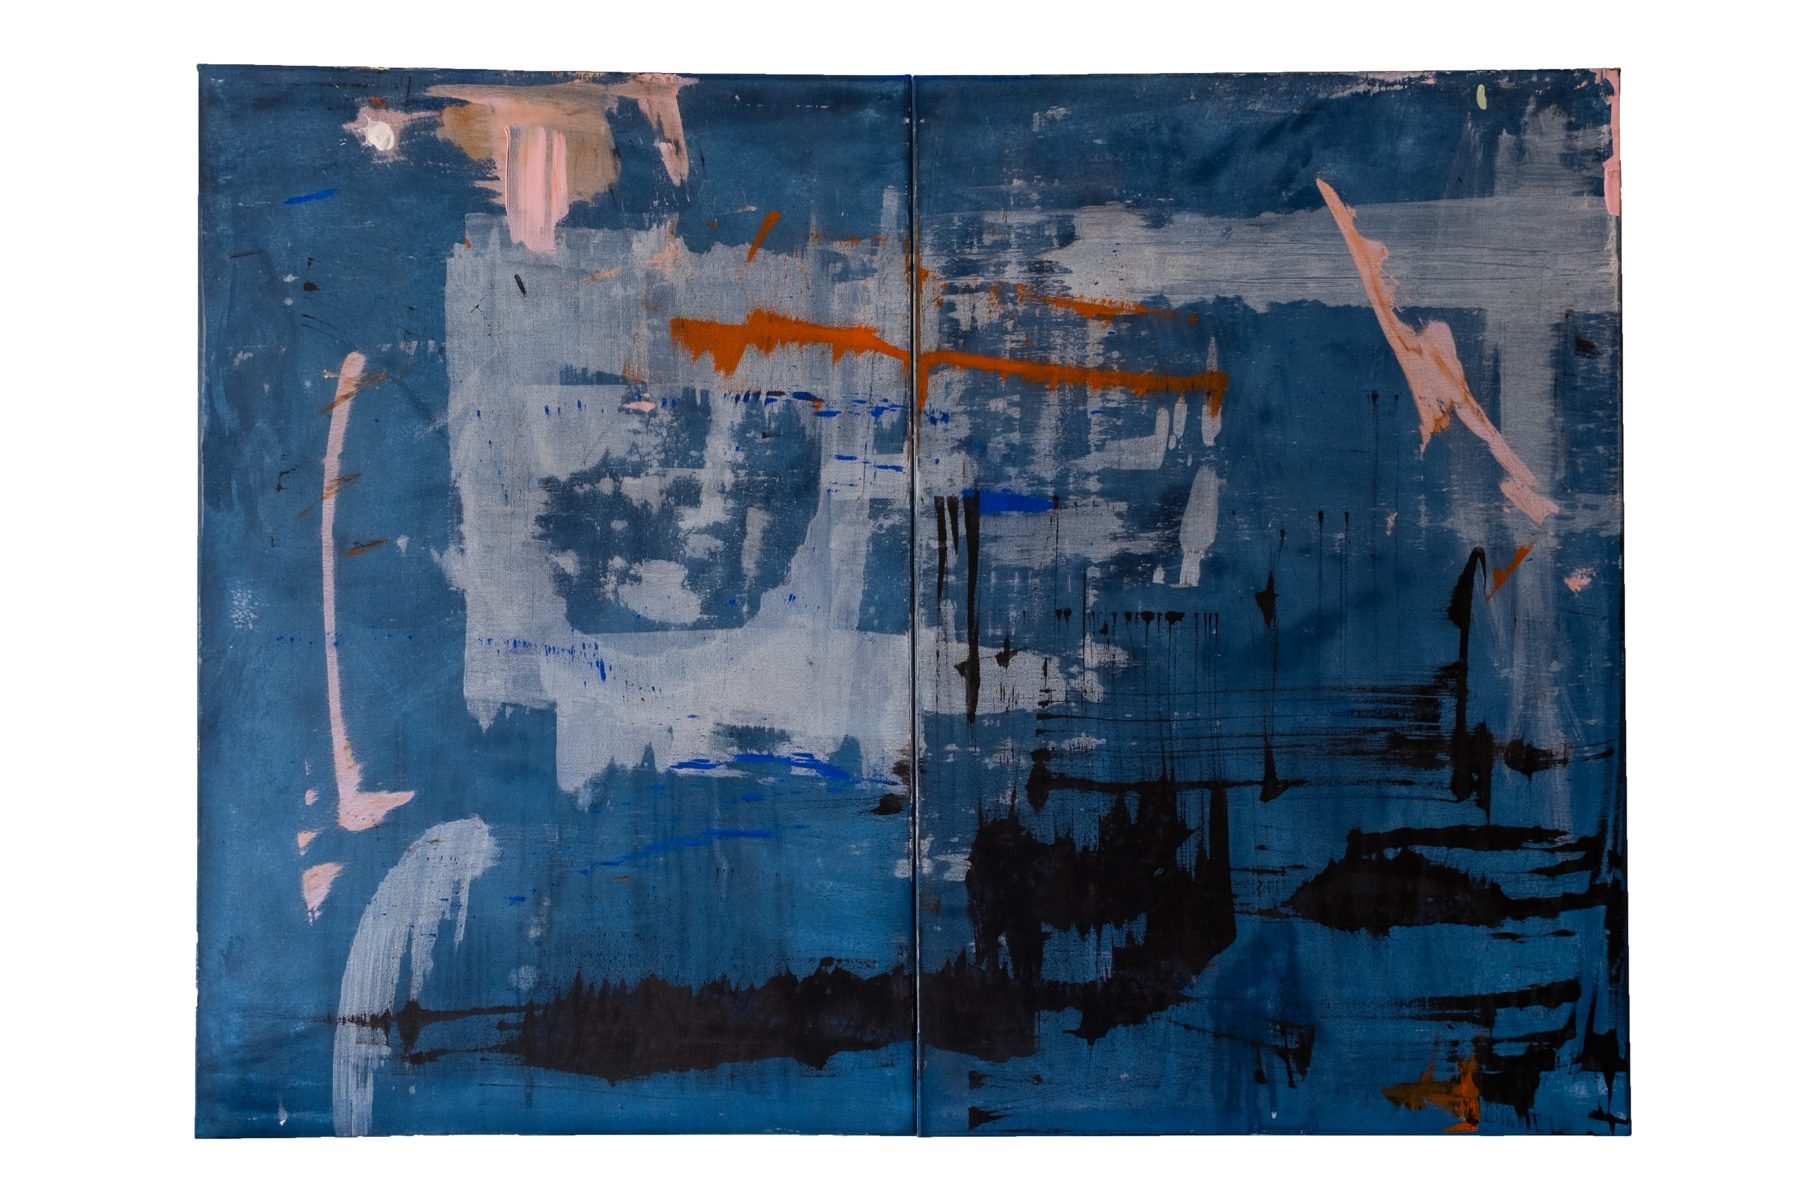
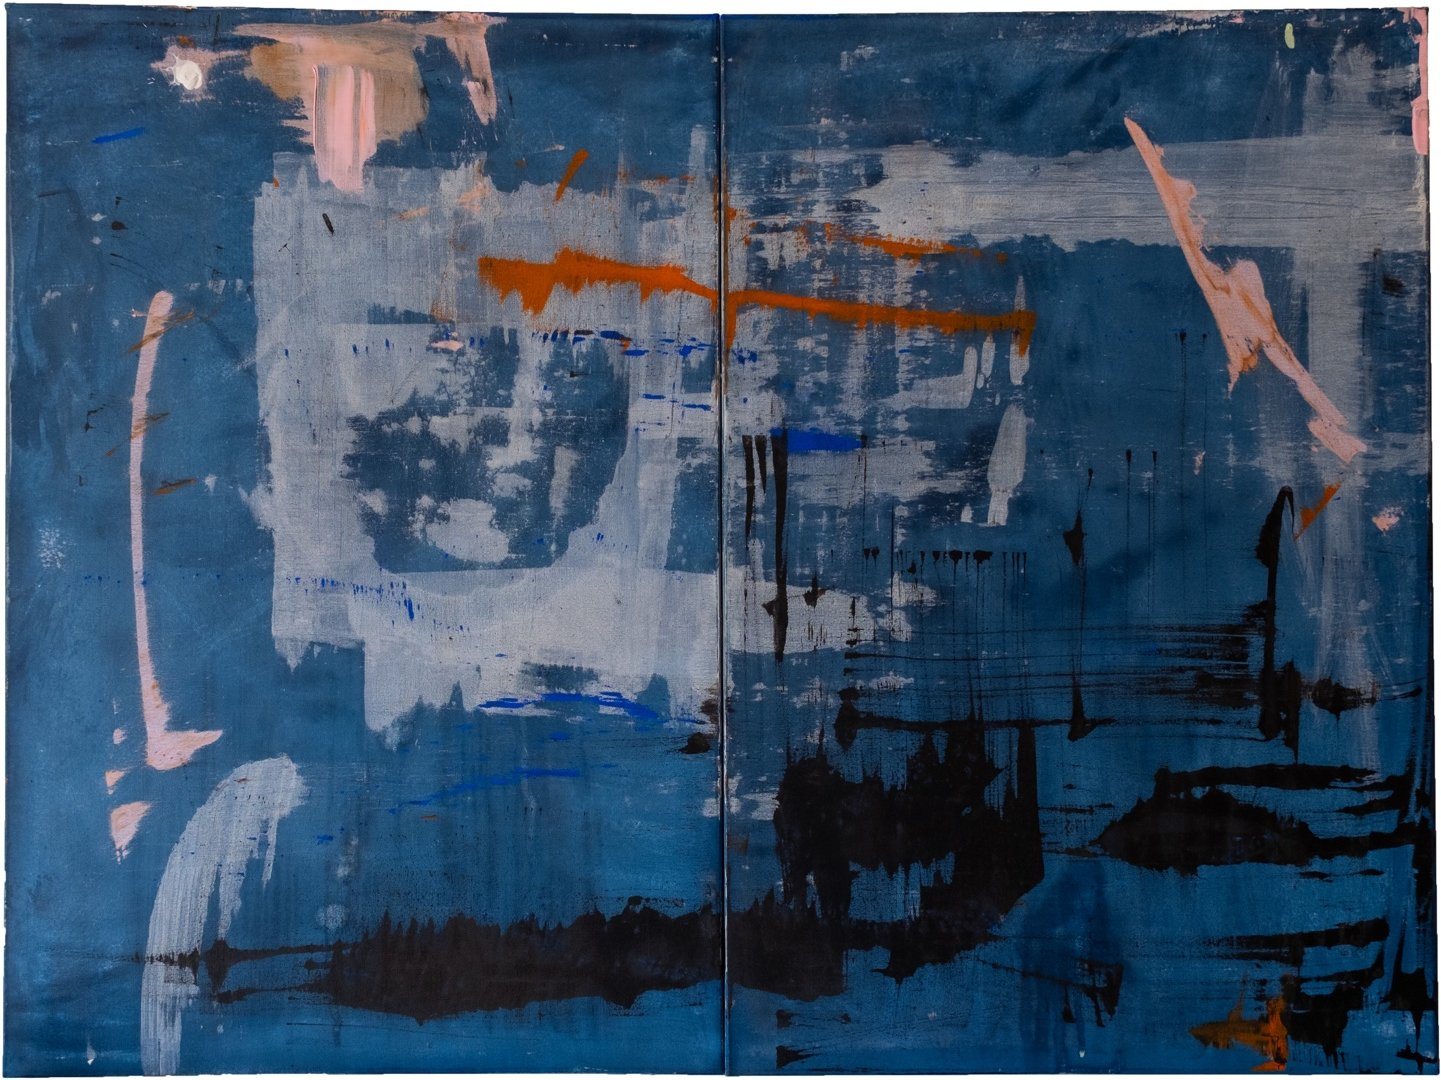
Painting: crop white borders from blue diptych, set as first slide and cover

diff --git a/index.html b/index.html
@@ -734,7 +734,7 @@ const PROJECTS = [
     title: "Abstract Painting",
     desc:  "An ongoing painting practice rooted in abstraction. Emotional, process-driven, resistant to resolution — paint as a way of thinking out loud rather than arriving at an answer.",
     img: "covers/painting.jpg", imgPos: "center center", bgColor: "#3a2a1a",
-    imgs: ['painting/1.jpg','painting/2.jpg','painting/3.jpg','painting/4.jpg','painting/5.jpg','painting/6.jpg'] },
+    imgs: ['painting/5.jpg','painting/1.jpg','painting/2.jpg','painting/3.jpg','painting/4.jpg','painting/6.jpg'] },
   { short: "Foda-se",          year: "2023",  cat: "sculpture", type: "personal",   color: "#f0b8b8",
     title: "Foda-se Condensado",
     desc:  "A homage to Warhol's Campbell's Soup, charged with Portuguese vernacular. Foda-se Condensado transposes the language of pop art onto a domestic icon of southern European kitchen culture — the first work in an ongoing series.",
